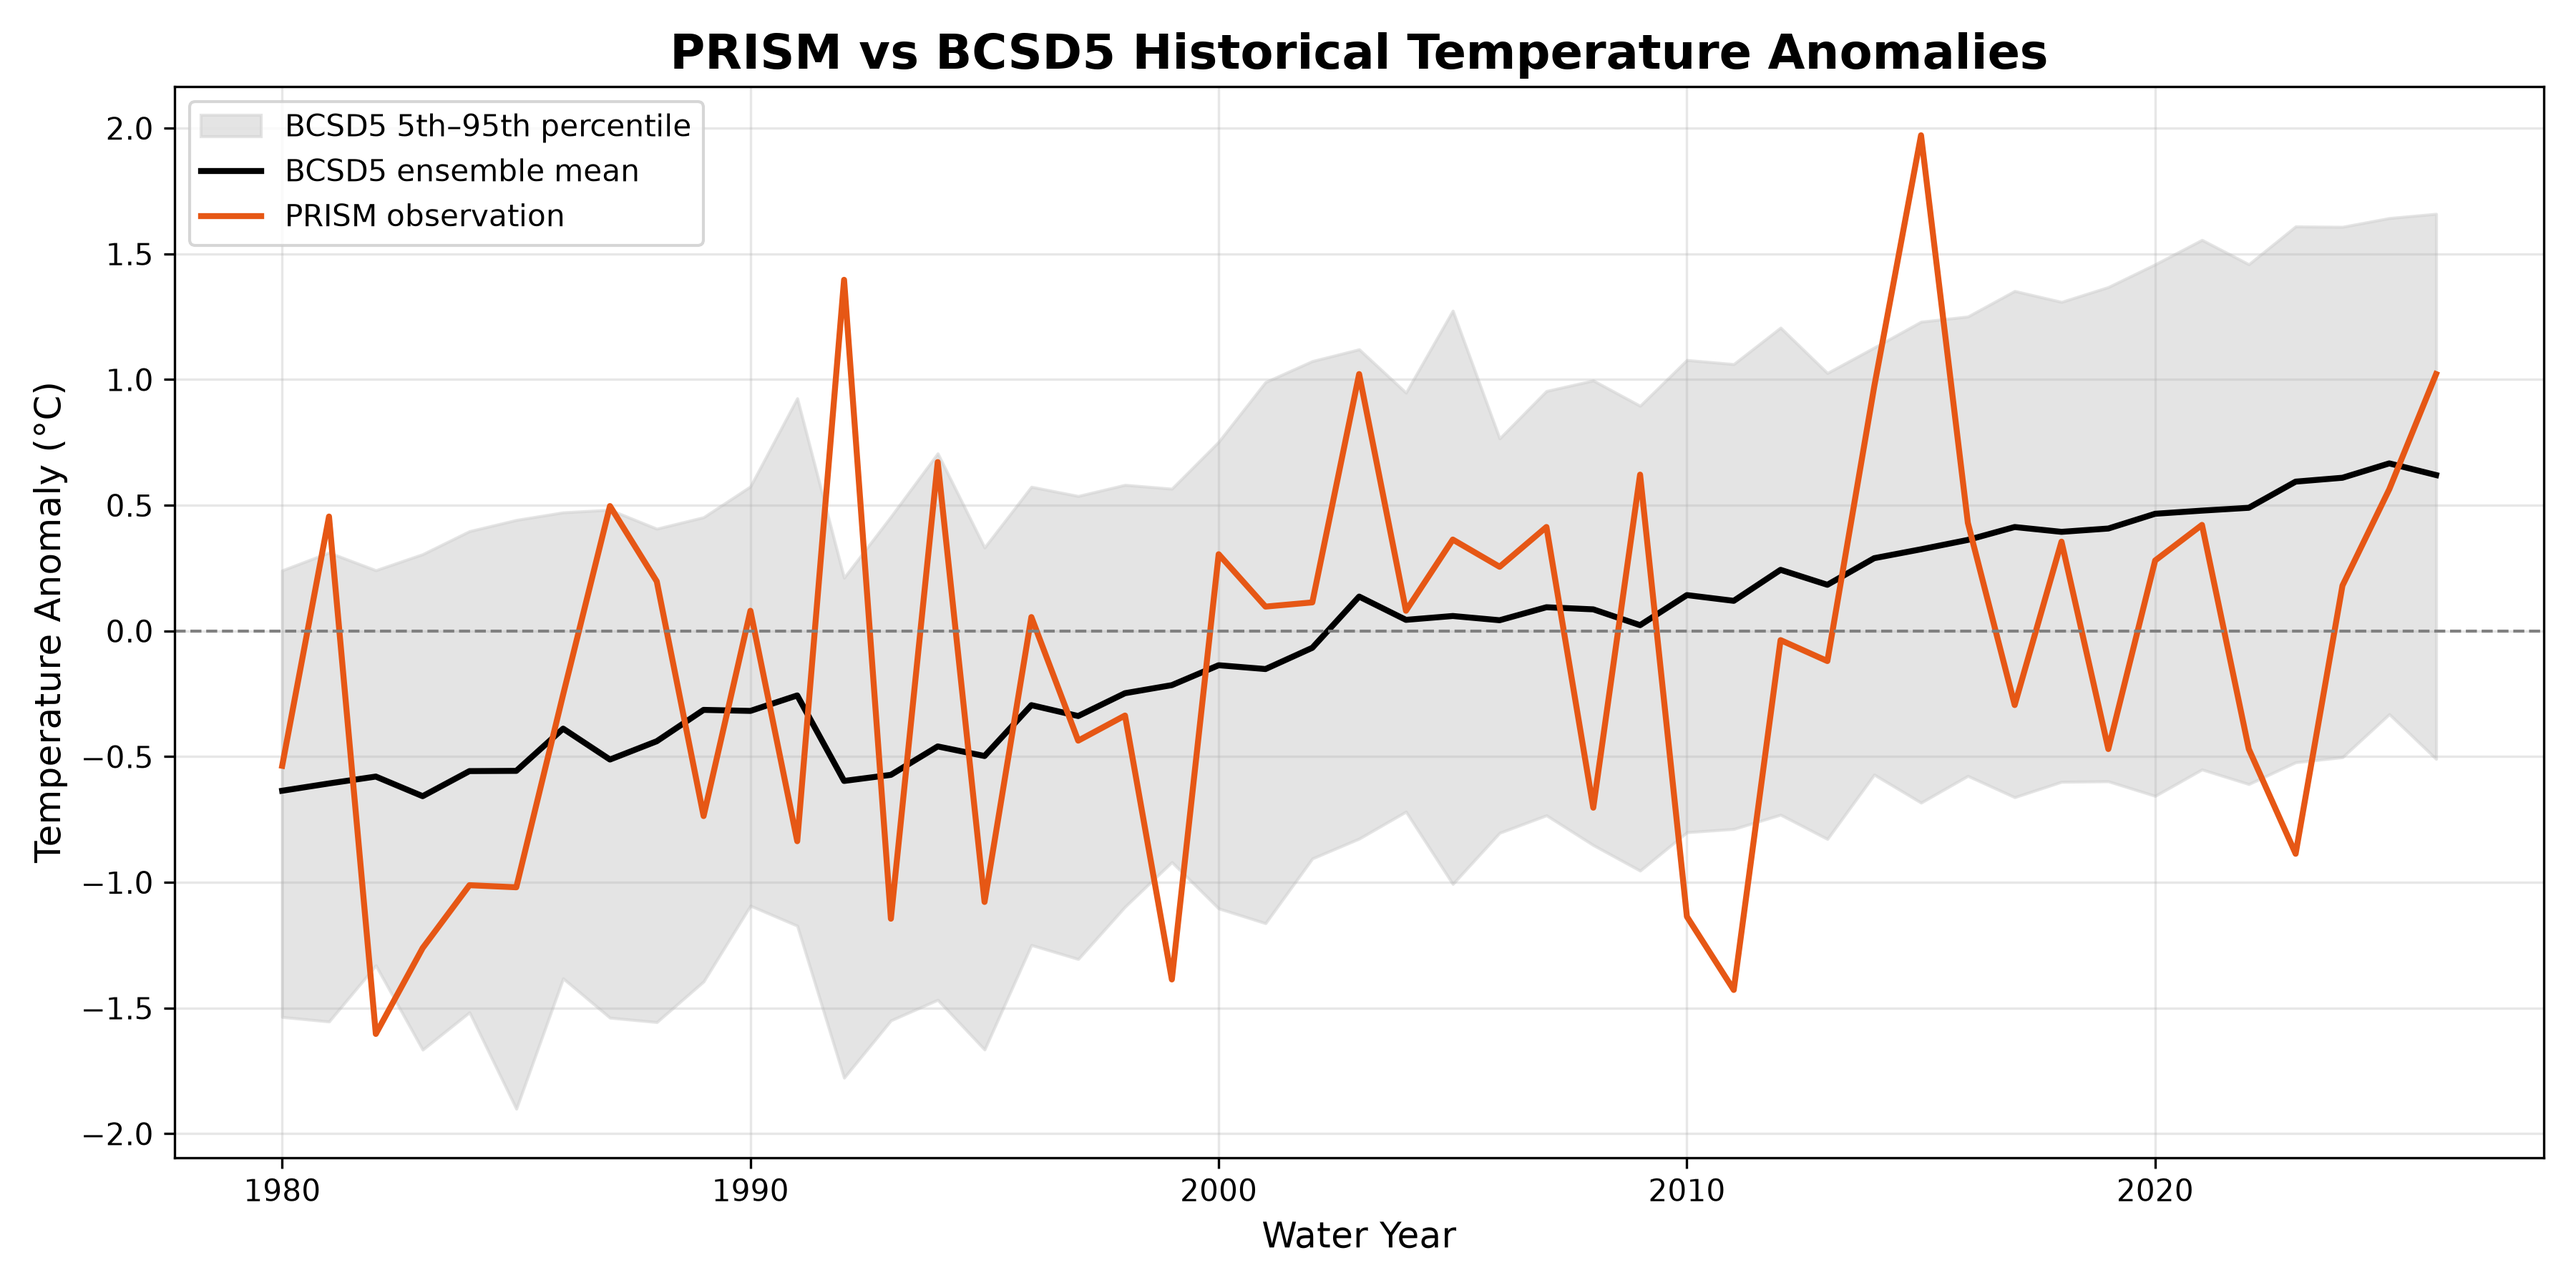
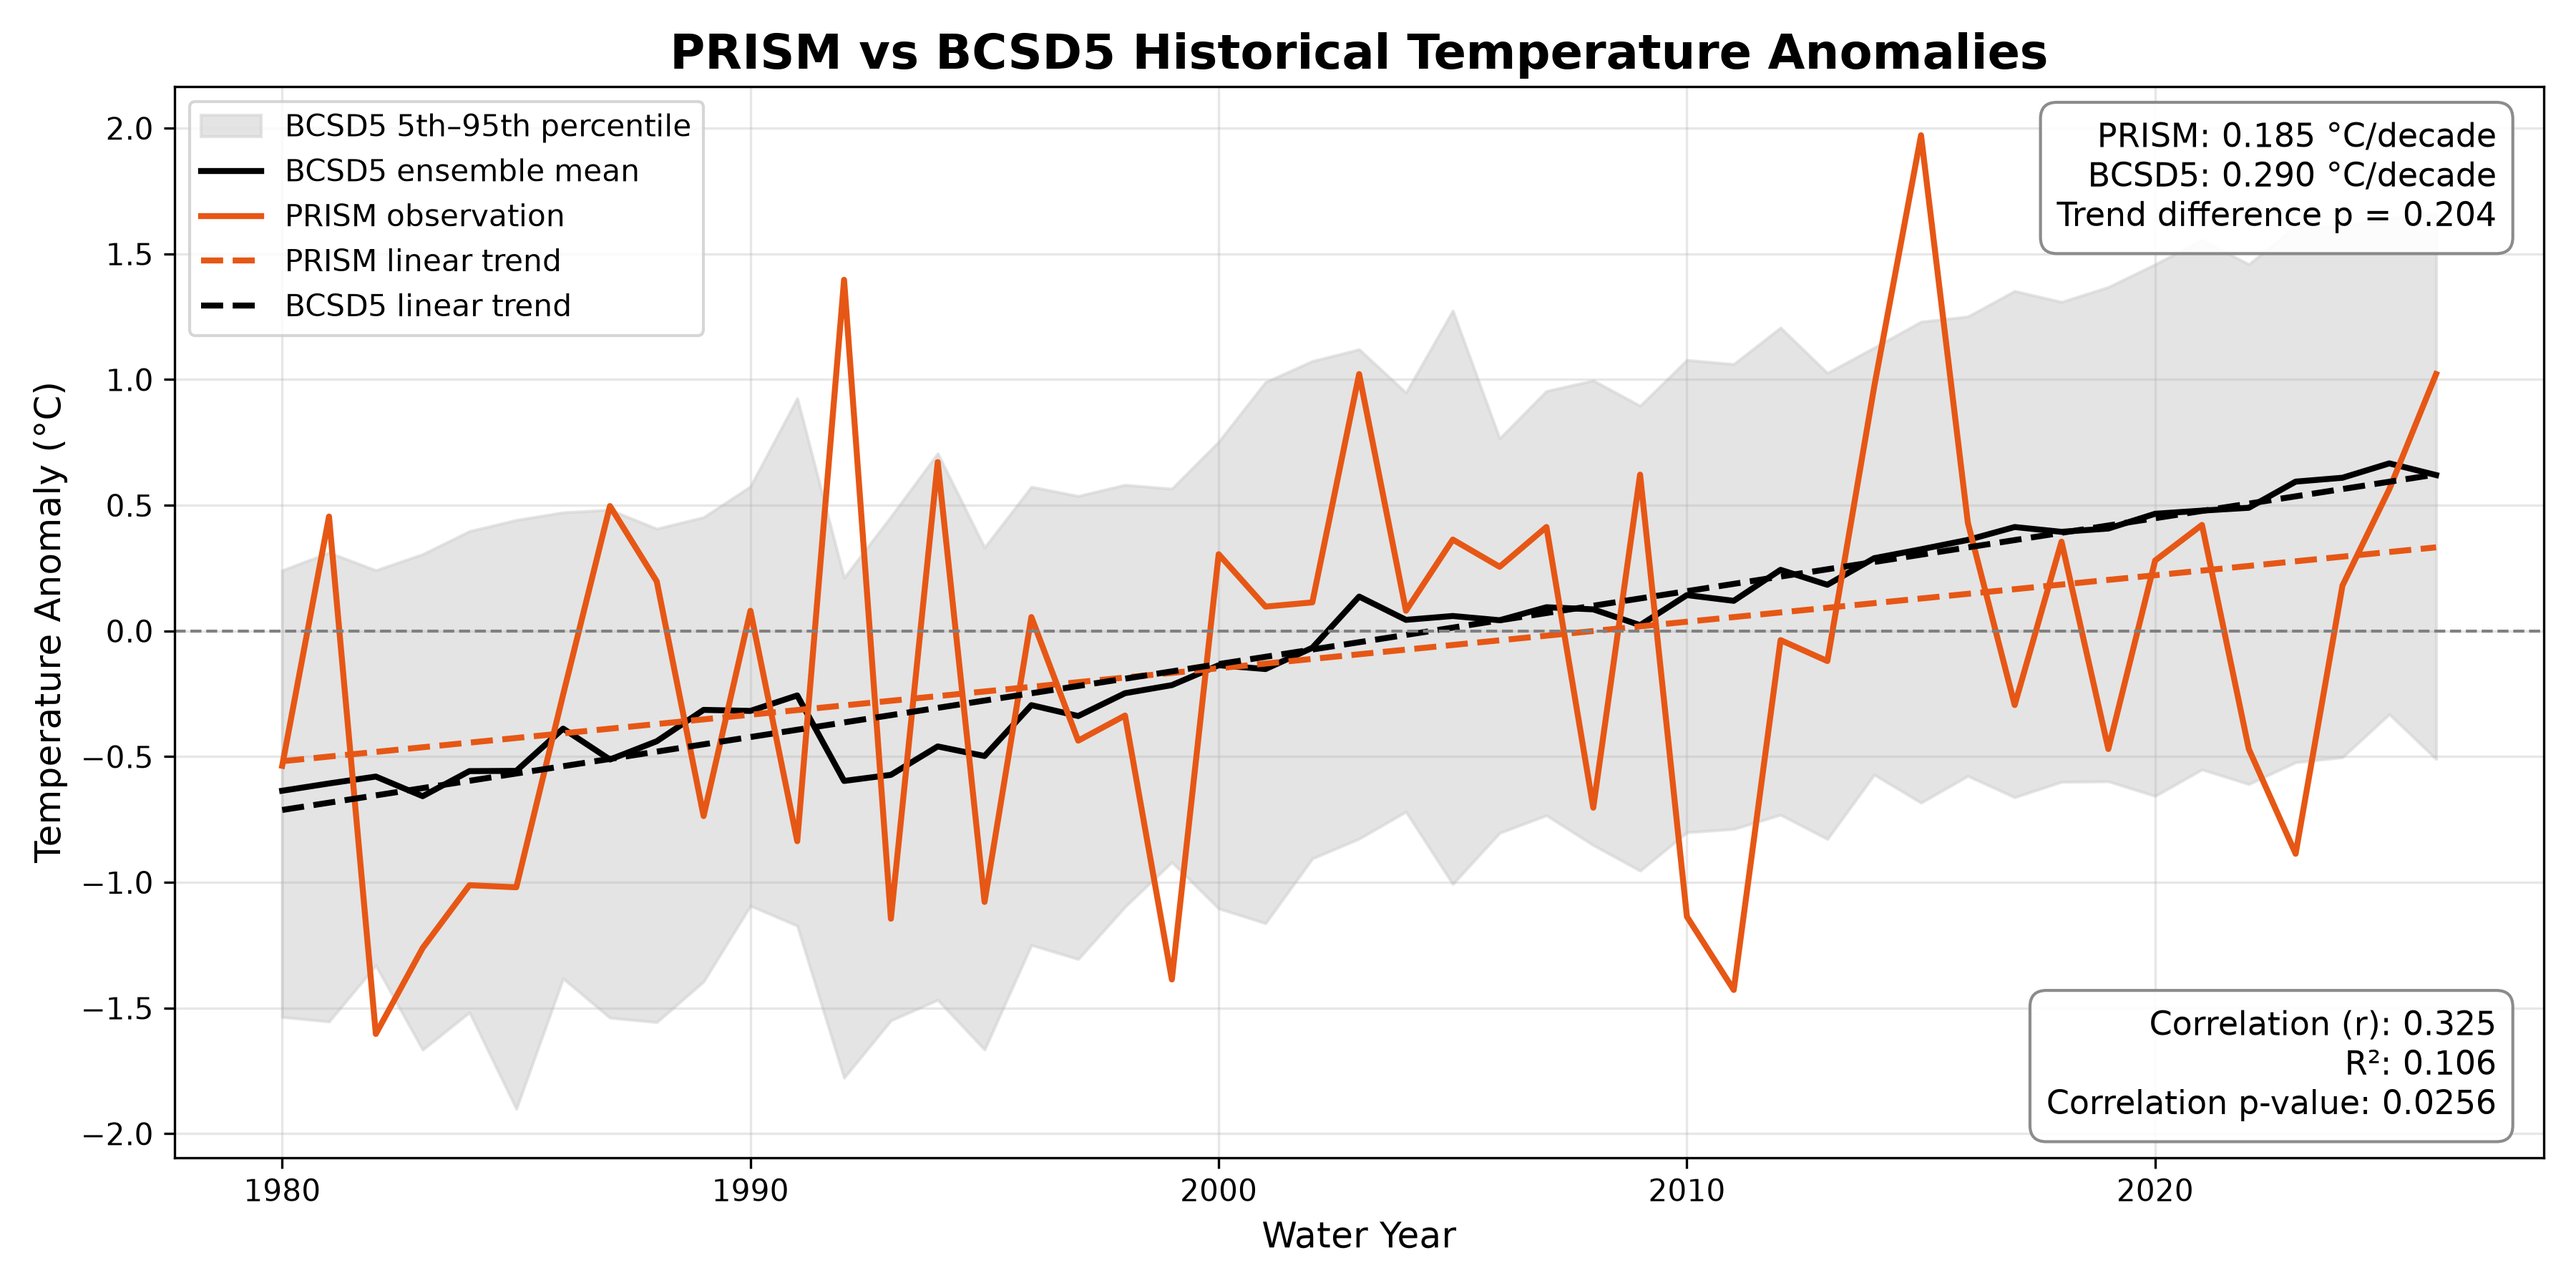
.

diff --git a/Future_projection/bcsd5_projection.py b/Future_projection/bcsd5_projection.py
@@ -2,6 +2,7 @@ from pathlib import Path
 import pandas as pd
 import numpy as np
 import os
+import statsmodels.formula.api as smf
 
 # ============================================================
 # 1. FILE PATHS
@@ -392,6 +393,74 @@ print(common_years.min(), "-", common_years.max())
 print("\nNumber of comparison years:")
 print(len(common_years))
 
+# ============================================================
+# CALCULATE CORRELATION STATISTICS BEFORE PLOTTING
+# ============================================================
+
+from scipy.stats import pearsonr
+
+correlation, correlation_pvalue = pearsonr(
+    prism_comparison,
+    bcsd5_mean_comparison
+)
+
+r_squared = correlation ** 2
+
+# ============================================================
+# CALCULATE TREND STATISTICS BEFORE PLOTTING
+# ============================================================
+
+from scipy.stats import linregress, pearsonr
+import statsmodels.formula.api as smf
+
+# PRISM trend
+prism_trend = linregress(
+    common_years,
+    prism_comparison
+)
+
+prism_trend_decade = prism_trend.slope * 10
+
+
+# BCSD5 trend
+bcsd5_trend = linregress(
+    common_years,
+    bcsd5_mean_comparison
+)
+
+bcsd5_trend_decade = bcsd5_trend.slope * 10
+
+
+# Correlation
+correlation, correlation_pvalue = pearsonr(
+    prism_comparison,
+    bcsd5_mean_comparison
+)
+
+r_squared = correlation ** 2
+
+
+# Trend difference regression
+trend_comparison = pd.DataFrame({
+    "Year": common_years,
+    "PRISM": prism_comparison.values,
+    "BCSD5": bcsd5_mean_comparison.values
+})
+
+trend_comparison_long = trend_comparison.melt(
+    id_vars="Year",
+    var_name="Dataset",
+    value_name="Temperature_Anomaly"
+)
+
+trend_model = smf.ols(
+    "Temperature_Anomaly ~ Year * Dataset",
+    data=trend_comparison_long
+).fit()
+
+trend_difference_pvalue = trend_model.pvalues[
+    "Year:Dataset[T.PRISM]"
+]
 
 # ============================================================
 # 14. PLOT PRISM VS BCSD5 HISTORICAL TEMPERATURE ANOMALIES
@@ -429,6 +498,53 @@ plt.plot(
     label="PRISM observation"
 )
 
+# ============================================================
+# ADD LINEAR REGRESSION TRENDS
+# ============================================================
+
+# PRISM regression line
+prism_fit = np.polyfit(
+    common_years,
+    prism_comparison,
+    1
+)
+
+prism_regression = np.polyval(
+    prism_fit,
+    common_years
+)
+
+# BCSD5 regression line
+bcsd5_fit = np.polyfit(
+    common_years,
+    bcsd5_mean_comparison,
+    1
+)
+
+bcsd5_regression = np.polyval(
+    bcsd5_fit,
+    common_years
+)
+
+# Plot regression lines
+plt.plot(
+    common_years,
+    prism_regression,
+    color="#e65715",
+    linestyle="--",
+    linewidth=2,
+    label="PRISM linear trend"
+)
+
+plt.plot(
+    common_years,
+    bcsd5_regression,
+    color="black",
+    linestyle="--",
+    linewidth=2,
+    label="BCSD5 linear trend"
+)
+
 plt.axhline(
     0,
     color="gray",
@@ -447,6 +563,66 @@ plt.title(
     "PRISM vs BCSD5 Historical Temperature Anomalies",
     fontsize=16,
     fontweight="bold"
+)
+
+# ============================================================
+# ADD TREND STATISTICS BOX (TOP RIGHT)
+# ============================================================
+
+prism_trend_value = prism_trend.slope * 10
+bcsd5_trend_value = bcsd5_trend.slope * 10
+
+trend_text = (
+    f"PRISM: {prism_trend_value:.3f} °C/decade\n"
+    f"BCSD5: {bcsd5_trend_value:.3f} °C/decade\n"
+    f"Trend difference p = {trend_difference_pvalue:.3f}"
+)
+
+ax = plt.gca()
+
+ax.text(
+    0.98,
+    0.97,
+    trend_text,
+    transform=ax.transAxes,
+    fontsize=11,
+    verticalalignment="top",
+    horizontalalignment="right",
+    bbox=dict(
+        boxstyle="round,pad=0.5",
+        facecolor="white",
+        alpha=0.9,
+        edgecolor="gray"
+    ),
+    zorder=10
+)
+
+
+# ============================================================
+# ADD CORRELATION STATISTICS BOX (BOTTOM RIGHT)
+# ============================================================
+
+correlation_text = (
+    f"Correlation (r): {correlation:.3f}\n"
+    f"R²: {r_squared:.3f}\n"
+    f"Correlation p-value: {correlation_pvalue:.4f}"
+)
+
+ax.text(
+    0.98,
+    0.03,
+    correlation_text,
+    transform=ax.transAxes,
+    fontsize=11,
+    verticalalignment="bottom",
+    horizontalalignment="right",
+    bbox=dict(
+        boxstyle="round,pad=0.5",
+        facecolor="white",
+        alpha=0.9,
+        edgecolor="gray"
+    ),
+    zorder=10
 )
 
 plt.legend()
@@ -505,15 +681,18 @@ bcsd5_trend = linregress(
 
 bcsd5_trend_decade = bcsd5_trend.slope * 10
 
-
 # ------------------------------------------------------------
-# Comparison statistics
+# Correlation statistics
 # ------------------------------------------------------------
 
-correlation = np.corrcoef(
+from scipy.stats import pearsonr
+
+correlation, correlation_pvalue = pearsonr(
     prism_comparison,
     bcsd5_mean_comparison
-)[0, 1]
+)
+
+r_squared = correlation ** 2
 
 rmse = np.sqrt(
     np.mean(
@@ -524,6 +703,86 @@ rmse = np.sqrt(
 bias = np.mean(
     bcsd5_mean_comparison - prism_comparison
 )
+
+# ============================================================
+# 15B. COMPARE PRISM AND BCSD5 WARMING TRENDS
+# ============================================================
+
+import statsmodels.formula.api as smf
+
+# ------------------------------------------------------------
+# Prepare combined dataset
+# ------------------------------------------------------------
+
+trend_comparison = pd.DataFrame({
+    "Year": common_years,
+    "PRISM": prism_comparison.values,
+    "BCSD5": bcsd5_mean_comparison.values
+})
+
+# Convert from wide to long format
+trend_comparison_long = trend_comparison.melt(
+    id_vars="Year",
+    var_name="Dataset",
+    value_name="Temperature_Anomaly"
+)
+
+# ------------------------------------------------------------
+# Regression with interaction term
+# ------------------------------------------------------------
+
+trend_model = smf.ols(
+    "Temperature_Anomaly ~ Year * Dataset",
+    data=trend_comparison_long
+).fit()
+
+print("\n" + "=" * 60)
+print("PRISM VS BCSD5 WARMING TREND COMPARISON")
+print("=" * 60)
+
+print(trend_model.summary())
+
+# ------------------------------------------------------------
+# Extract interaction term
+# ------------------------------------------------------------
+
+interaction_term = "Year:Dataset[T.PRISM]"
+
+if interaction_term in trend_model.params.index:
+    trend_difference = trend_model.params[interaction_term]
+    trend_difference_pvalue = trend_model.pvalues[interaction_term]
+
+else:
+    interaction_term = "Year:Dataset[T.BCSD5]"
+    trend_difference = trend_model.params[interaction_term]
+    trend_difference_pvalue = trend_model.pvalues[interaction_term]
+
+# Convert to °C/decade
+trend_difference_decade = trend_difference * 10
+
+print("\nTrend difference:")
+print(f"{trend_difference_decade:.3f} °C/decade")
+
+print("\nP-value for trend difference:")
+print(f"{trend_difference_pvalue:.4f}")
+
+# ------------------------------------------------------------
+# Interpretation
+# ------------------------------------------------------------
+
+if trend_difference_pvalue < 0.05:
+
+    print(
+        "\nThe warming trends of PRISM and BCSD5 "
+        "are statistically significantly different."
+    )
+
+else:
+
+    print(
+        "\nThere is no statistically significant difference "
+        "between the warming trends of PRISM and BCSD5."
+    )
 
 
 # ============================================================
@@ -1052,6 +1311,8 @@ plt.xticks(
 )
 
 plt.grid(alpha=0.3)
+
+
 
 plt.legend()
 
